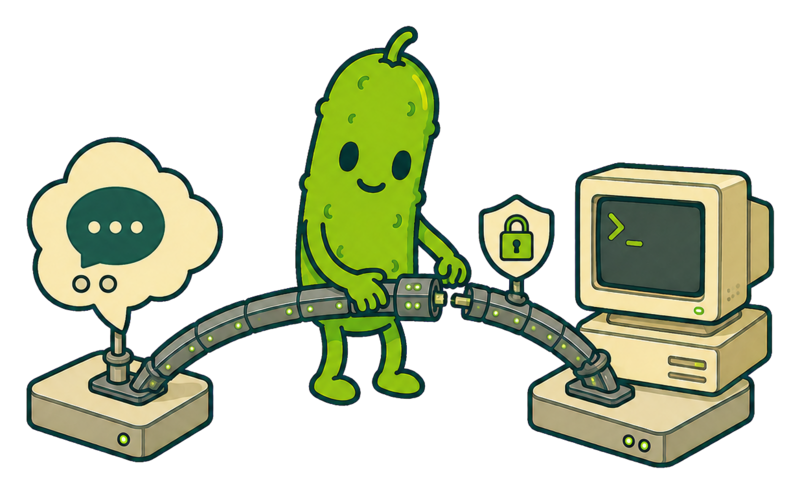
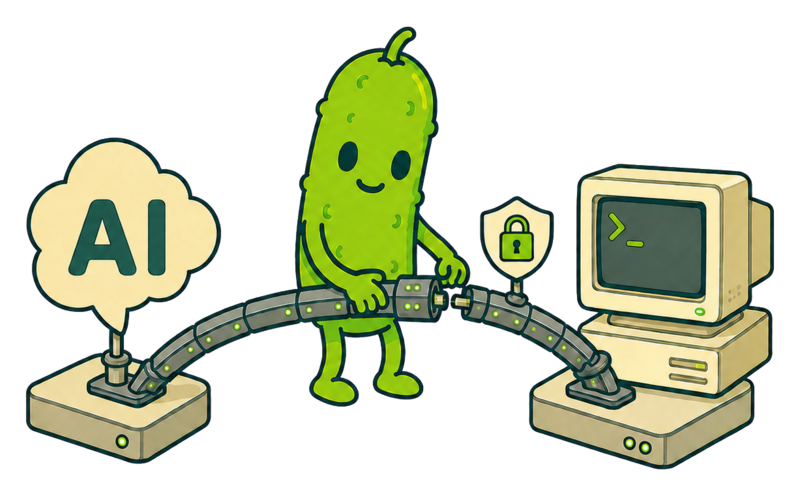
Update support/bridge images and intrinsic heights (775, 496) width 800

diff --git a/index.html b/index.html
@@ -524,7 +524,7 @@
             </div>
           </div>
           <div class="contact-image">
-            <img src="pickleshell-support.png" alt="PickleShell assistant diagnosing a problem on a local computer" width="800" height="782">
+            <img src="pickleshell-support.png" alt="PickleShell assistant diagnosing a problem on a local computer" width="800" height="775">
           </div>
         </div>
       </div>
@@ -545,7 +545,7 @@
             </div>
           </div>
           <div class="contact-image">
-            <img src="pickleshell-bridge.png" alt="PickleShell assistant completing a secure bridge to a local agent" width="800" height="494">
+            <img src="pickleshell-bridge.png" alt="PickleShell assistant completing a secure bridge to a local agent" width="800" height="496">
           </div>
         </div>
       </div>
